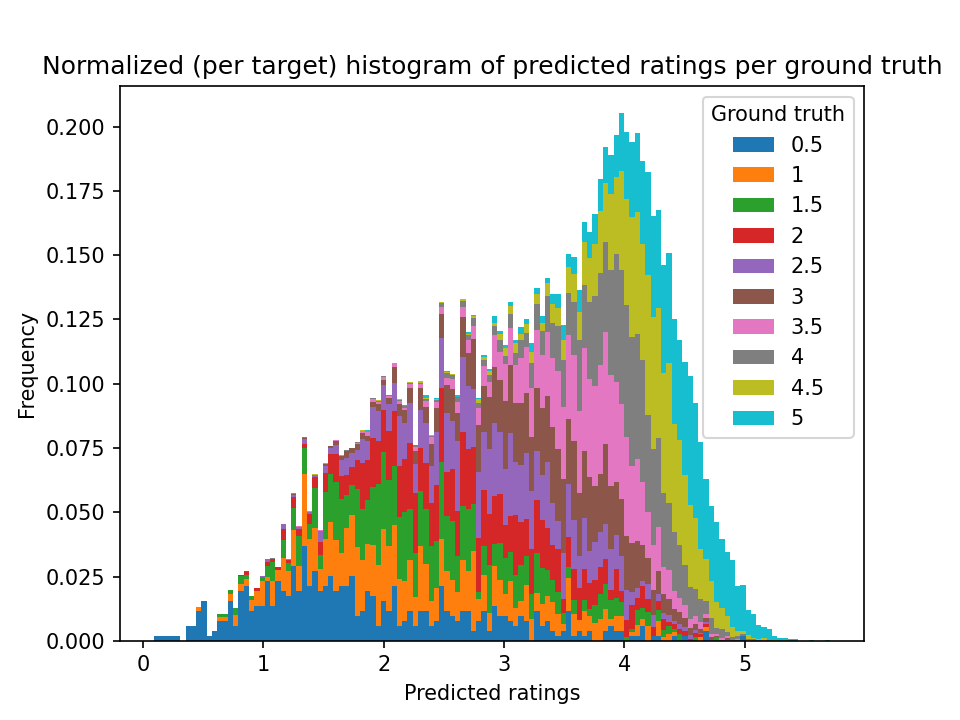
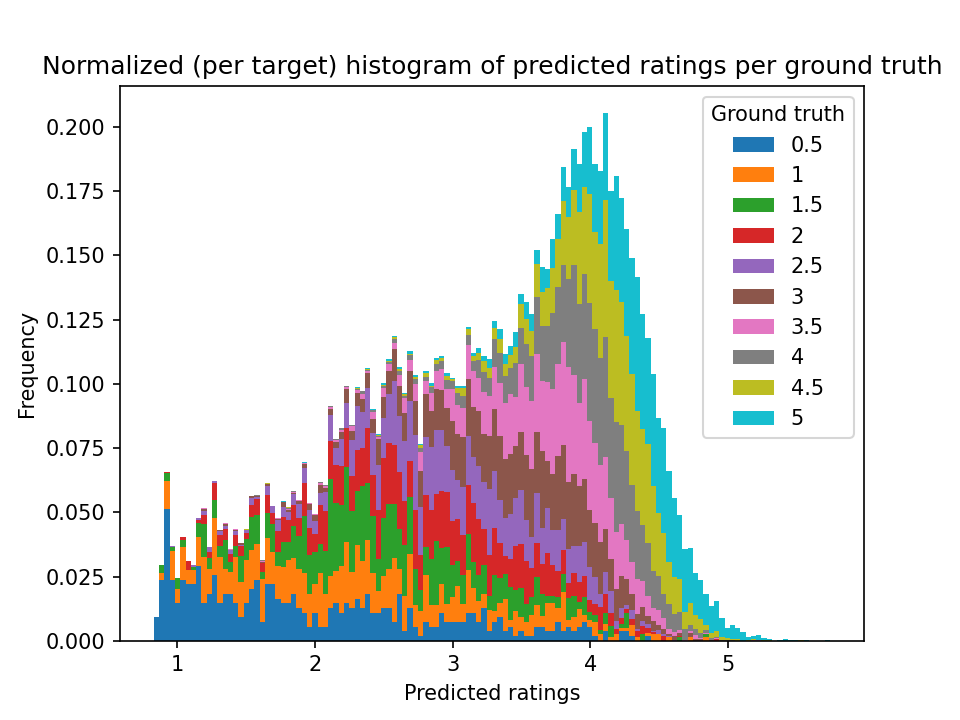
Restored genome tags, they must have been important

Changed region(s): [[0.1562, 0.1528, 0.8125, 0.9472], [0.0312, 0.4278, 0.125, 0.4583], [0.125, 0.9167, 0.1562, 0.9472]]

diff --git a/src/create_training_data.py b/src/create_training_data.py
@@ -20,14 +20,23 @@ def load_user_ratings(movielens_data_folder, LIMIT_USERS=None):
         # user_ratings = user_ratings.loc[1: LIMIT_USERS]
         user_ratings = user_ratings.loc[user_ratings.index.max() - LIMIT_USERS: user_ratings.index.max()]
 
+    # load genome tags
+    genometags = pd.read_csv(movielens_data_folder + 'genome-scores.csv',
+                             index_col='movieId',
+                             usecols=['movieId', 'tagId', 'relevance'],
+                             dtype={'movieId': np.int32, 'tagId': np.int32, 'relevance': np.float64})
+    genometags = genometags.pivot_table('relevance', index='movieId', columns='tagId')
+
     # change movieId to IMDb ID, link movieIds with imdbIds
     links = pd.read_csv(movielens_data_folder + 'links.csv',
                         index_col='movieId',
                         usecols=['movieId', 'imdbId'],
                         dtype={'movieId': np.int32, 'imdbId': 'string'})
     user_ratings['movieId'] = 'tt' + user_ratings['movieId'].map(links['imdbId'])
+    genometags.index = 'tt' + genometags.index.map(links['imdbId'])
+    genometags.rename({c: f'genome_{c}' for c in genometags.columns.tolist()}, inplace=True, axis=1)   # needed for concat to work later
 
-    return user_ratings
+    return user_ratings, genometags
 
 
 def load_imdb_dfs(unique_movies: pd.Series):
@@ -73,15 +82,17 @@ def load_imdb_dfs(unique_movies: pd.Series):
                                 index_col='tconst',
                                 usecols=['tconst', 'nconst', 'category'])
     principals_df = principals_df[principals_df.index.isin(movies_df.index)]
-    principals_df = principals_df[principals_df['category'].isin(['actor', 'actress', 'writer', 'director', 'composer'])]  # TODO: change if more roles
+    principals_df = principals_df[principals_df['category'].isin(['actor', 'actress', 'writer', 'director', 'composer'])]
 
     print(movies_df)
+    print(movies_df.shape)
     print(principals_df)
+    print(principals_df.shape)
 
     return movies_df, principals_df
 
 
-def load_imdb_metadata_features(unique_movies: pd.Series, use_extended=False):
+def load_imdb_metadata_features(unique_movies: pd.Series, MIN_APPEARANCES=1):
     movies_df, principals_df = load_imdb_dfs(unique_movies)
 
     all_genres = [
@@ -100,9 +111,13 @@ def load_imdb_metadata_features(unique_movies: pd.Series, use_extended=False):
     # composer_mask = principals_df['category'] == 'composer'
     # all_composers = sorted(list(principals_df['nconst'][composer_mask].unique()))
 
-    all_personel = sorted(list(principals_df['nconst'].unique()))
+    print('Number of personel:', len(principals_df), f'. Removing those with less than {MIN_APPEARANCES} appearances...')
+    reduced_principals_df = principals_df.groupby('nconst').filter(lambda x: len(x) >= MIN_APPEARANCES)
+    print(f'Left with {len(reduced_principals_df)}')
 
-    F = len(all_genres) + len(all_personel)
+    all_personnel = sorted(list(reduced_principals_df['nconst'].unique()))
+
+    F = len(all_genres) + len(all_personnel)
     features = np.zeros((len(unique_movies), F))
     for i, movieId in tqdm(enumerate(unique_movies.index), total=len(unique_movies)):
         # multi-hot encode genres
@@ -110,11 +125,11 @@ def load_imdb_metadata_features(unique_movies: pd.Series, use_extended=False):
         genres = set([g.replace(' ', '') for g in genres])
         genres_feat = multi_hot_encode(genres, all_genres)
         # multi-hot encode personel
-        personel = set(principals_df.loc[movieId]['nconst'])
-        personel_feat = multi_hot_encode(personel, all_personel)
+        personnel = set(principals_df.loc[movieId]['nconst'])
+        personnel_feat = multi_hot_encode(personnel, all_personnel)
         # put together for features
         features[i, :len(all_genres)] = genres_feat
-        features[i, len(all_genres):] = personel_feat
+        features[i, len(all_genres):] = personnel_feat
     return pd.DataFrame(index=unique_movies.index, data=features)
 
 
@@ -123,8 +138,9 @@ def save_set(matrix: pd.DataFrame, name: str):
 
 
 if __name__ == '__main__':
-    recalculate_metadata = False
+    recalculate_metadata = True
     save_user_ratings = True
+    use_genome_tags = True
     random_vs_temporal_splitting = True
     create_user_embeddings_too = True
     split_embeddings_from_train = False  # don't do this
@@ -134,7 +150,7 @@ if __name__ == '__main__':
 
     # load user ratings (sparse representation of a utility matrix)
     print('Loading movieLens data...')
-    utility_matrix = load_user_ratings(movielens_path, LIMIT_USERS=LIMIT_USERS)
+    utility_matrix, genome_metadata = load_user_ratings(movielens_path, LIMIT_USERS=LIMIT_USERS)
     print(utility_matrix.shape)
 
     # load audio features
@@ -157,8 +173,16 @@ if __name__ == '__main__':
     if recalculate_metadata:
         print('Loading IMDb data...')
         unique_movies = pd.Series(index=utility_matrix['movieId'].unique().copy())
-        metadata = load_imdb_metadata_features(unique_movies, use_extended=use_audio)
+        imdb_metadata = load_imdb_metadata_features(unique_movies)
+        if use_genome_tags:
+            genome_metadata = genome_metadata[genome_metadata.index.isin(unique_movies.index)]
+            metadata = imdb_metadata.join(genome_metadata)
+            metadata = metadata.fillna(0.0)   # shouldn't be any but just in case
+        else:
+            metadata = imdb_metadata
         print(f'Found {metadata.shape[0]} movies.\nSaving metadata...')
+        print(metadata)
+        print(metadata.columns.tolist())
         metadata.to_hdf(item_metadata_file + '.h5', key='metadata', mode='w')
         print('OK!')
     else:

diff --git a/src/train.py b/src/train.py
@@ -164,15 +164,9 @@ if __name__ == '__main__':
         item_dim = MovieLensDataset.get_item_feature_dim()
 
         # create model
-        if features_to_use == 'audio':
-            model = AttentionNCF(item_dim, dropout_rate=dropout_rate,
-                                 item_emb=256, user_emb=256, att_dense=8, mlp_dense_layers=[512, 256, 128])
-            # model = AdvancedNCF(item_dim, item_emb=256, user_emb=256, mlp_dense_layers=[512, 256, 128], dropout_rate=dropout_rate)
-        else:
-
-            model = AttentionNCF(item_dim, dropout_rate=dropout_rate,
-                                 item_emb=256, user_emb=256, att_dense=8, mlp_dense_layers=[512, 256, 128])
-            # model = AdvancedNCF(item_dim, item_emb=256, user_emb=256, mlp_dense_layers=[512, 256, 128], dropout_rate=dropout_rate)
+        model = AttentionNCF(item_dim, dropout_rate=dropout_rate,
+                             item_emb=256, user_emb=256, att_dense=5, mlp_dense_layers=[512, 256, 128])
+        # model = AdvancedNCF(item_dim, item_emb=256, user_emb=256, mlp_dense_layers=[512, 256, 128], dropout_rate=dropout_rate)
 
         forward_function = NCF_withfeatures_forward
         dataset_class = MovieLensDataset

diff --git a/src/globals.py b/src/globals.py
@@ -18,7 +18,7 @@ seed = 102
 
 # which features to use for items
 """ 'metadata', 'audio' or 'all' """
-features_to_use = 'metadata'
+features_to_use = 'all'
 
 """ NN hyperparameters """
 checkpoint_model_path = '../models/checkpoint.pt'
@@ -32,6 +32,6 @@ weight_decay = 1e-5
 dropout_rate = 0.2
 early_stop = True
 stop_with_train_loss_instead = False  # Note: useful if we are trying to overfit
-patience = 4
+patience = 5
 
 USE_FEATURES = True
